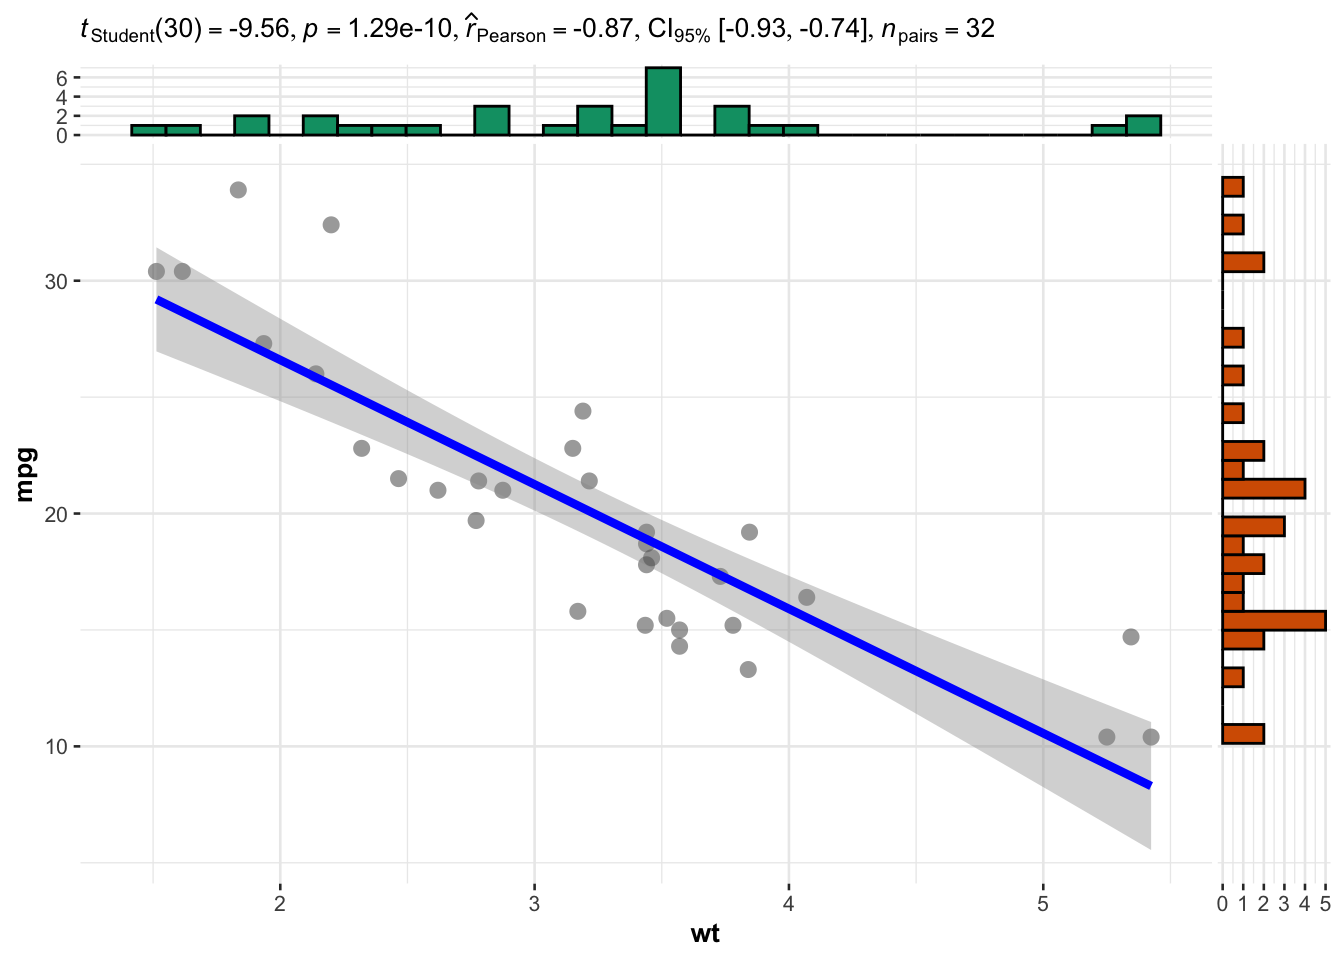
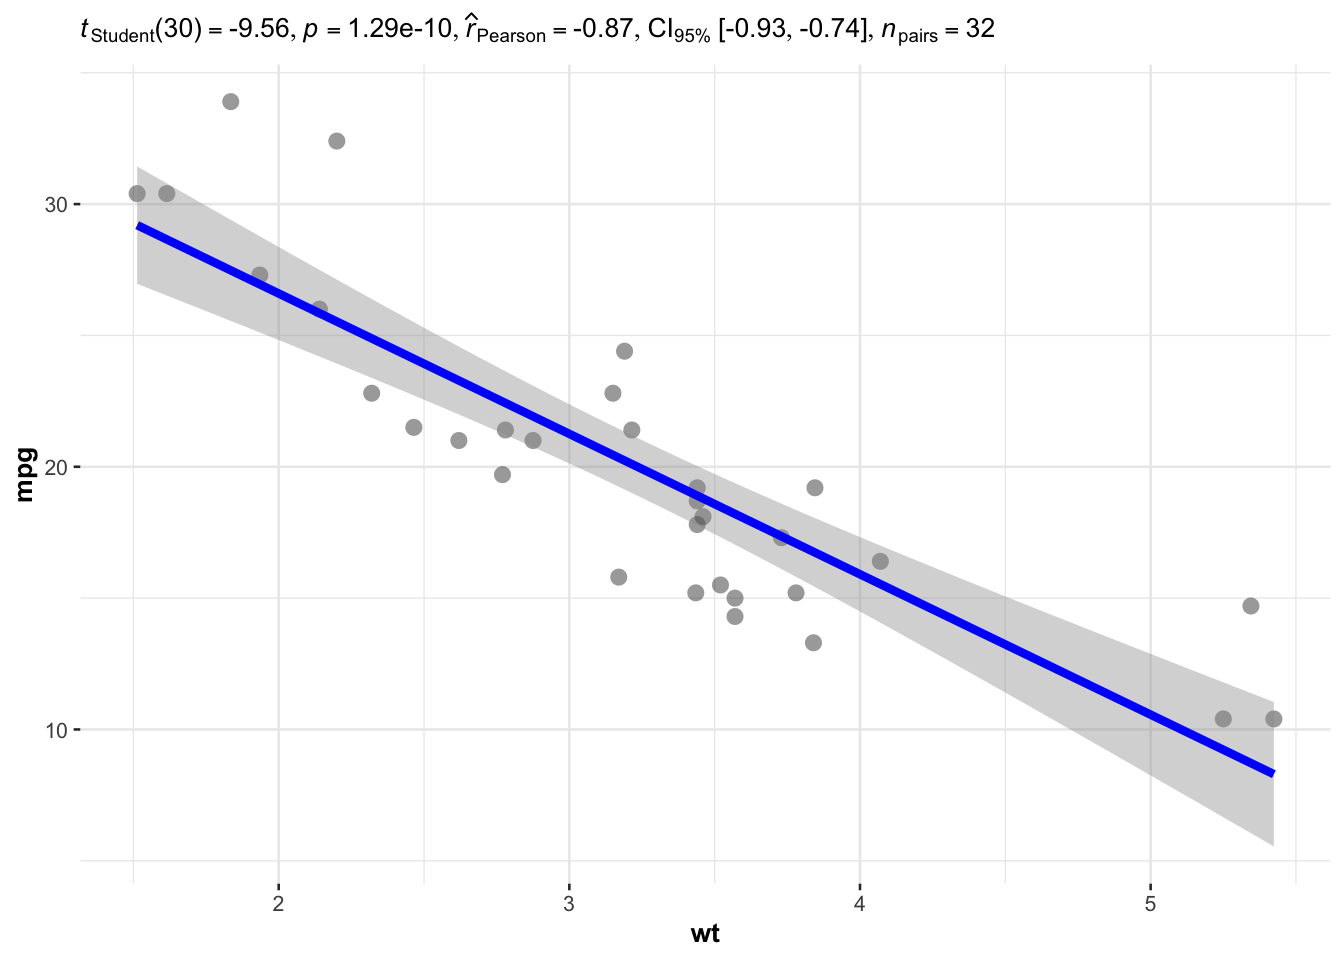
edit post on correlation

diff --git a/content/blog/2020-05-28-correlation-coefficient-and-correlation-test-in-r.html b/content/blog/2020-05-28-correlation-coefficient-and-correlation-test-in-r.html
@@ -58,7 +58,7 @@ bibliography: bibliography.bib
 <h1>Introduction</h1>
 <p>Correlations between variables play an important role in a <a href="/tags/descriptive-statistics/">descriptive analysis</a>. A correlation measures the <strong>relationship between two variables</strong>, that is, how they are linked to each other. In this sense, a correlation allows to know which variables evolve in the same direction, which ones evolve in the opposite direction, and which ones are independent.</p>
 <p>In this article, I show how to compute <strong>correlation coefficients</strong>, how to perform <strong>correlation tests</strong> and how to <strong>visualize relationships</strong> between variables in R.</p>
-<p>Correlation is usually computed on two <a href="/blog/variable-types-and-examples/#quantitative">quantitative</a> variables, but it can also be computed on two <a href="/blog/variable-types-and-examples/#ordinal">qualitative ordinal</a> variables. See the <a href="/blog/chi-square-test-of-independence-in-r/">Chi-square test of independence</a> if you need to study the relationship between two <a href="/blog/variable-types-and-examples/#nominal">qualitative nominal</a> variables.</p>
+<p>Correlation is usually computed on two <a href="/blog/variable-types-and-examples/#quantitative">quantitative</a> variables, but it can also be computed on two <a href="/blog/variable-types-and-examples/#ordinal">qualitative ordinal</a> variables.<a href="#fn1" class="footnote-ref" id="fnref1"><sup>1</sup></a> See the <a href="/blog/chi-square-test-of-independence-in-r/">Chi-square test of independence</a> if you need to study the relationship between two <a href="/blog/variable-types-and-examples/#nominal">qualitative nominal</a> variables.</p>
 <p>If you need to <em>quantify</em> the relationship between two variables, I refer you to the article about <a href="/blog/multiple-linear-regression-made-simple/">linear regression</a>.</p>
 </div>
 <div id="data" class="section level1">
@@ -103,12 +103,13 @@ cor(dat$hp, dat$mpg,
   method = &quot;spearman&quot;
 )</code></pre>
 <pre><code>## [1] -0.8946646</code></pre>
-<p>There are several correlation methods (Run <code>?cor</code> for more information about the different methods available in the <code>cor()</code> function):</p>
+<p>The most common correlation methods (Run <code>?cor</code> for more information about the different methods available in the <code>cor()</code> function) are:</p>
 <ul>
 <li><strong>Pearson</strong> correlation is often used for <a href="/blog/variable-types-and-examples/#continuous">quantitative continuous</a> variables that have a linear relationship</li>
 <li><strong>Spearman</strong> correlation (which is actually similar to Pearson but based on the ranked values for each variable rather than on the raw data) is often used to evaluate relationships involving at least one <a href="/blog/variable-types-and-examples/#ordinal">qualitative ordinal</a> variable or two quantitative variables if the link is partially linear</li>
 <li><strong>Kendall’s tau-b</strong> which is computed from the number of concordant and discordant pairs is often used for qualitative ordinal variables</li>
 </ul>
+<p>Note that there exists the <em>point-biserial correlation</em> (which can be used to measure the association between a continuous variable and a nominal variable of two levels), but this correlation is not covered here.</p>
 </div>
 <div id="correlation-matrix-correlations-for-all-variables" class="section level2">
 <h2>Correlation matrix: correlations for all variables</h2>
@@ -216,7 +217,7 @@ corrplot(cor(dat),
 test &lt;- cor.test(dat$drat, dat$qsec)
 test</code></pre>
 <pre><code>## 
-##  Pearson&#39;s product-moment correlation
+## 	Pearson&#39;s product-moment correlation
 ## 
 ## data:  dat$drat and dat$qsec
 ## t = 0.50164, df = 30, p-value = 0.6196
@@ -226,7 +227,7 @@ test</code></pre>
 ## sample estimates:
 ##        cor 
 ## 0.09120476</code></pre>
-<p>The <em>p</em>-value of the correlation test between these 2 variables is 0.62. At the 5% significance level, we do not reject the null hypothesis of no correlation. We therefore conclude that we do not reject the hypothesis that there is no linear relationship between the 2 variables.<a href="#fn1" class="footnote-ref" id="fnref1"><sup>1</sup></a></p>
+<p>The <em>p</em>-value of the correlation test between these 2 variables is 0.62. At the 5% significance level, we do not reject the null hypothesis of no correlation. We therefore conclude that we do not reject the hypothesis that there is no linear relationship between the 2 variables.<a href="#fn2" class="footnote-ref" id="fnref2"><sup>2</sup></a></p>
 <p>This test proves that even if the correlation coefficient is different from 0 (the correlation is 0.09 in the sample), it is actually not significantly different from 0 in the population.</p>
 <p>Note that the <em>p</em>-value of a correlation test is based on the correlation coefficient <strong>and</strong> the sample size. The larger the sample size and the more extreme the correlation (closer to -1 or 1), the more likely the null hypothesis of no correlation will be rejected.</p>
 <p>With a small sample size, it is thus possible to obtain a <em>relatively</em> large correlation in the sample (based on the correlation coefficient), but still find a correlation not significantly different from 0 in the population (based on the correlation test). For this reason, it is recommended to always perform a correlation test before interpreting a correlation coefficient to avoid flawed conclusions.</p>
@@ -262,11 +263,13 @@ round(res$P, 3)</code></pre>
 <p>If you need to do this for a few pairs of variables, I recommend using the <code>ggscatterstats()</code> function from the <code>{ggstatsplot}</code> package. Let’s see it in practice with one pair of variables—<code>wt</code> and <code>mpg</code>:</p>
 <pre class="r"><code>## plot with statistical results
 library(ggstatsplot)
+
 ggscatterstats(
   data = dat,
   x = wt,
   y = mpg,
-  bf.message = FALSE
+  bf.message = FALSE,
+  marginal = FALSE # remove histograms
 )</code></pre>
 <p><img src="/blog/2020-05-28-correlation-coefficient-and-correlation-test-in-r_files/figure-html/unnamed-chunk-15-1.png" width="100%" style="display: block; margin: auto;" /></p>
 <p>Based on the result of the test, we conclude that there is a negative correlation between the weight and the number of miles per gallon (<span class="math inline">\(r = - 0.87\)</span>, <span class="math inline">\(p\)</span>-value &lt; 0.001).</p>
@@ -389,7 +392,7 @@ corrplot2(
 
 ggpairs(dat[, c(&quot;mpg&quot;, &quot;hp&quot;, &quot;wt&quot;)])</code></pre>
 <p><img src="/blog/2020-05-28-correlation-coefficient-and-correlation-test-in-r_files/figure-html/unnamed-chunk-18-1.png" width="100%" style="display: block; margin: auto;" /></p>
-<p>The plot above combines correlation coefficients, correlation tests (via the asterisks next to the coefficients<a href="#fn2" class="footnote-ref" id="fnref2"><sup>2</sup></a>) and scatterplots for all possible pairs of variables present in a dataset.</p>
+<p>The plot above combines correlation coefficients, correlation tests (via the asterisks next to the coefficients<a href="#fn3" class="footnote-ref" id="fnref3"><sup>3</sup></a>) and scatterplots for all possible pairs of variables present in a dataset.</p>
 <pre class="r"><code>library(ggstatsplot)
 
 ggcorrmat(
@@ -436,7 +439,8 @@ Maurage, Pierre, Alexandre Heeren, and Mauro Pesenti. 2013. <span>“Does Chocol
 <div class="footnotes footnotes-end-of-document">
 <hr />
 <ol>
-<li id="fn1"><p>It is important to remember that we tested for a <em>linear</em> relationship between the two variables since we used the Pearson’s correlation. It may be the case that there is a relationship between the two variables in the population, but this relation may not be linear.<a href="#fnref1" class="footnote-back">↩</a></p></li>
-<li id="fn2"><p>One asterisk means that the coefficient is significant at the 5% level, 2 is at the 1% significance level, and 3 is at the 0.1% significance level. This is usually the case in R; the more asterisks, the more it is significant.<a href="#fnref2" class="footnote-back">↩</a></p></li>
+<li id="fn1"><p>It is true that there is the point-biserial correlation which can be used with a nominal variable (consisting of two factors). Nonetheless, this type of correlation is much less known and usually not covered in introductory statistics classes; with one continuous and one nominal variable, it is much more frequent to learn about the <a href="/blog/student-s-t-test-in-r-and-by-hand-how-to-compare-two-groups-under-different-scenarios/">Student’s t-test</a> (for a nominal variable with 2 groups) or <a href="/blog/anova-in-r/">ANOVA</a> (for a nominal variable with 3 or more groups). More information about choosing the most appropriate measure of association depending on the type of variable can be found in this <a href="https://journals.sagepub.com/doi/pdf/10.1177/8756479308317006" target="_blank">article</a>.<a href="#fnref1" class="footnote-back">↩</a></p></li>
+<li id="fn2"><p>It is important to remember that we tested for a <em>linear</em> relationship between the two variables since we used the Pearson’s correlation. It may be the case that there is a relationship between the two variables in the population, but this relation may not be linear.<a href="#fnref2" class="footnote-back">↩</a></p></li>
+<li id="fn3"><p>One asterisk means that the coefficient is significant at the 5% level, 2 is at the 1% significance level, and 3 is at the 0.1% significance level. This is usually the case in R; the more asterisks, the more it is significant.<a href="#fnref3" class="footnote-back">↩</a></p></li>
 </ol>
 </div>
